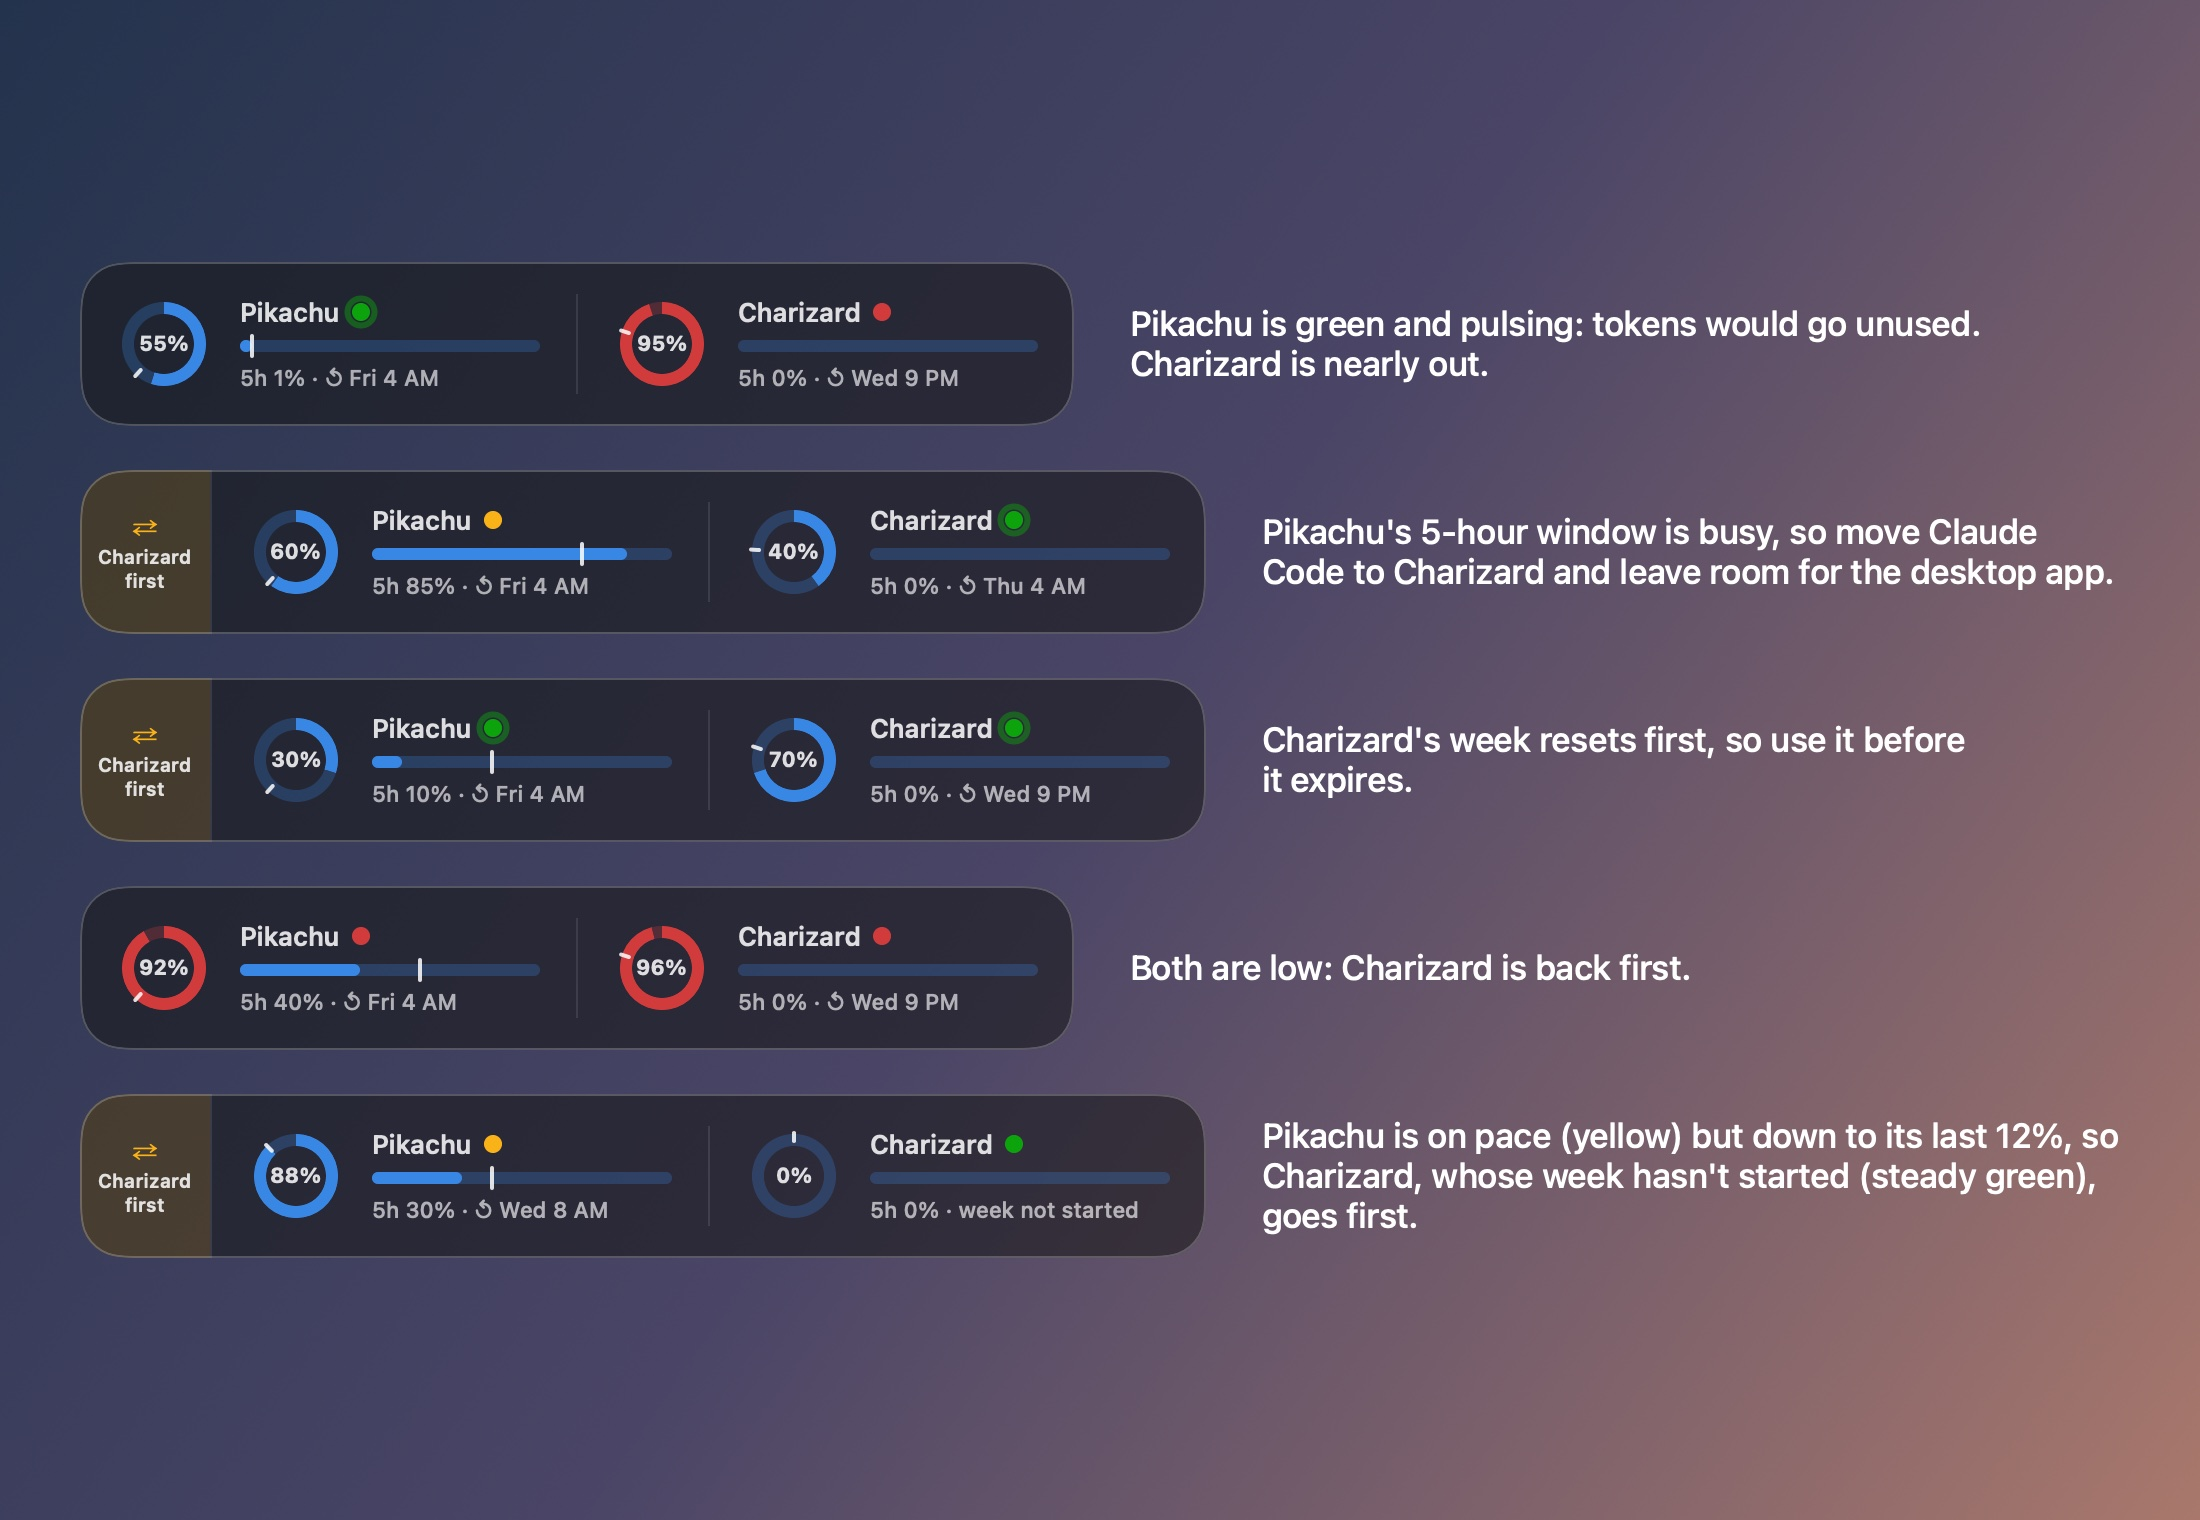
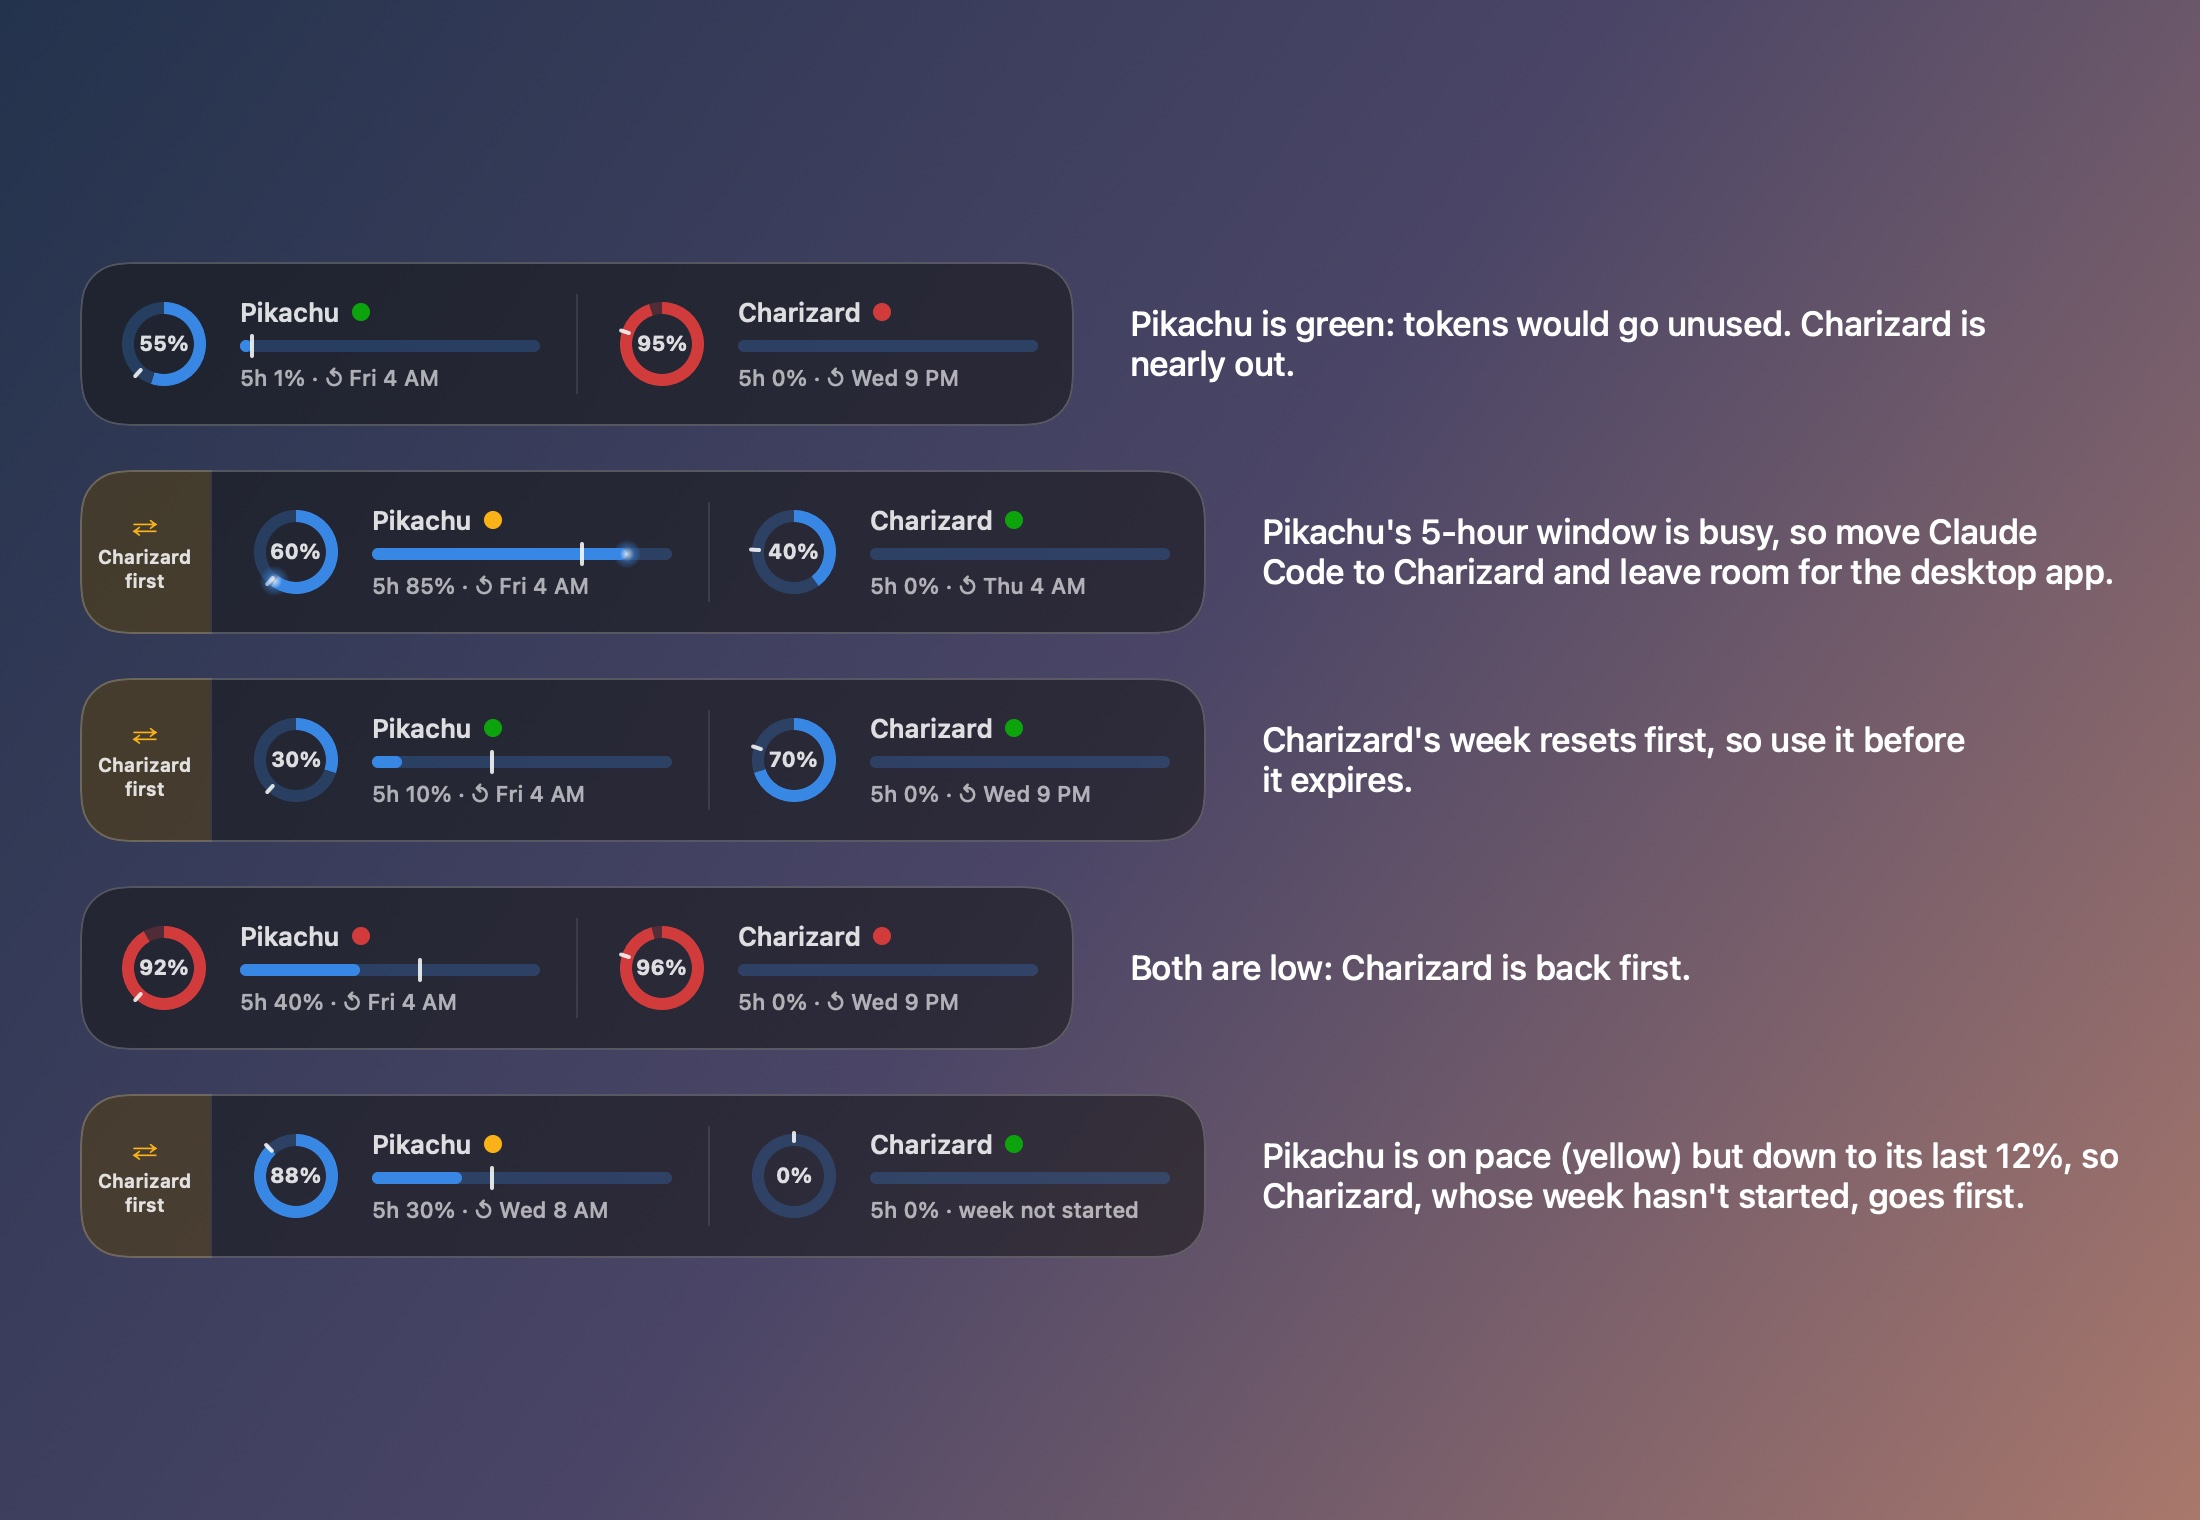
Document the compact widget and the in-use effect; refresh the screenshots

diff --git a/Sources/ClaudeDock/Showcase.swift b/Sources/ClaudeDock/Showcase.swift
@@ -33,6 +33,7 @@ enum Showcase {
         let side = model(scenarios[0])
         side.vertical = true
         write(SideScene(model: side), size: CGSize(width: 1000, height: 820), scheme: .dark, to: dir, "vertical.png")
+        write(CompactScene(model: main), size: CGSize(width: 1180, height: 330), scheme: .dark, to: dir, "compact.png")
         try? FileManager.default.removeItem(at: history)
         print("Showcase written to \(dir.path)")
     }
@@ -166,6 +167,34 @@ private struct DesktopScene: View {
             .frame(maxWidth: .infinity, maxHeight: .infinity, alignment: .bottomTrailing)
             .padding(.trailing, 12)
             .padding(.bottom, 6)
+        }
+    }
+}
+
+/// The bottom-right of a desktop twice: the compact widget beside the Dock, and the full
+/// widget it grows to when the pointer rests on it.
+private struct CompactScene: View {
+    @ObservedObject var model: AppModel
+
+    var body: some View {
+        ZStack {
+            Wallpaper(dark: true)
+            VStack(spacing: 40) {
+                row(compact: true)
+                row(compact: false)
+            }
+            .padding(.vertical, 30)
+        }
+    }
+
+    private func row(compact: Bool) -> some View {
+        ZStack {
+            FakeDock()
+                .frame(maxWidth: .infinity, alignment: .leading)
+                .padding(.leading, -160)
+            WidgetView(model: model, actions: .none, compact: compact).fixedSize()
+                .frame(maxWidth: .infinity, alignment: .trailing)
+                .padding(.trailing, 12)
         }
     }
 }

diff --git a/README.md b/README.md
@@ -42,13 +42,22 @@ at the end of the week. Claude Dock answers that at a glance, without opening a 
 |---|---|
 | **Ring** | How much of this week's limit is used. The **tick** on the ring is how much of the week has gone by: keep the fill up near the tick and nothing goes unused. |
 | **Bar** | How much of the current **5-hour window** is used. Its tick is how far into the window you are. |
-| **Dot** | 🟢 **use it**: at your current pace tokens would go unused at reset (it pulses faster the more would go to waste) · 🟡 **on pace** · 🔴 **nearly out** |
+| **Dot** | 🟢 **use it**: at your current pace tokens would go unused at reset · 🟡 **on pace** · 🔴 **nearly out** |
 | **Caption** | `5h 19% · ↺ Fri 4 AM`: the 5-hour window's use, then when the week resets. |
+| **Particles** | The org is in use right now: Claude Code is working on it, or its usage went up at the last reading (which also catches the desktop app, up to 3 minutes late). |
 | **⇄ tab** | Appears only when Claude Code should switch orgs, e.g. `Charizard first`. |
 
 It's as tall as your Dock, its rings are the size of your Dock icons, and it uses the same
 clear Liquid Glass, so it looks like part of the Dock. Hover over an org for the whole
 story in a sentence (VoiceOver reads the same).
+
+**Small until you need it.** The widget starts compact: each org's ring, name and 5-hour
+line. Rest the pointer on it and it grows into the full widget, over the Dock if it has
+to; move away and it shrinks back. Click it for the panel either way.
+
+<p align="center">
+  <img src="docs/images/compact.jpg" alt="The compact widget beside the Dock, and the full widget it grows to on hover" width="880">
+</p>
 
 With one org, there's nothing to switch between, so you just get the ring, bar and dot.
 
@@ -63,8 +72,9 @@ the side, and the panel opens beside it.
 </p>
 
 Right-click it for **Position** (any corner or side), **Layout** (automatic, horizontal or
-vertical) and **Size** (Small, Match Dock, Large, Extra large), or pinch on your trackpad
-over it to resize freely.
+vertical), **Size** (Small, Match Dock, Large, Extra large), **Shrink until hovered** (on
+by default) and **In-use effect** (Sparks, Flow, Shimmer or Off, and Subtle, Normal or
+Lots), or pinch on your trackpad over it to resize freely.
 
 ## Every state
 
@@ -95,7 +105,7 @@ weeks reset at different times.
 |---|---|
 | 🔴 | under 10% of the week left, or on track to run out 12+ hours before reset, or the 5-hour window is 95%+ used |
 | 🟡 | the 5-hour window is 80%+ used, or less than 5% would go unused, or running out slightly early |
-| 🟢 | 5% or more would go unused. Pulses slowly under 10%, normally at 10–25%, fast above 25% |
+| 🟢 | 5% or more would go unused |
 
 **Switching orgs:** an org can take Claude Code when it has at least 10% of its week left and
 its 5-hour window is under 80% used (the org shared with the desktop app also keeps a 15%
@@ -164,6 +174,8 @@ red, and if claude.ai signs it out.
 - It only **reads**: GET requests to claude.ai's usage endpoints every 3 minutes. It never
   sends chats, changes settings or touches billing.
 - It reads **one field** from `~/.claude.json`: which org Claude Code is signed into.
+- It watches `~/.claude/projects` for changes, to know when Claude Code is working. It
+  never opens those files.
 - History stays on your Mac in `~/Library/Application Support/ClaudeDock/`, kept 35 days.
 - No analytics, no other servers.
 

diff --git a/docs/manual-checks.md b/docs/manual-checks.md
@@ -55,6 +55,19 @@ a real Mac, a real account, or a person. Tick what you checked and on what.
 - [ ] A 24-hour region (System Settings → General → Language & Region): times read "16:00".
 - [ ] Changing the time zone updates the times within a minute, without relaunching.
 
+## Compact and in use
+
+- [ ] Hover grows the widget and leaving shrinks it, with another app in front, over a
+      full-screen app, on every Position, and in the vertical strip.
+- [ ] Expanded beside the Dock, it draws over the Dock.
+- [ ] Click: the panel opens against the expanded widget, which stays expanded until the
+      panel closes.
+- [ ] Reduce Motion: the widget only crossfades, and an org in use shows a still glow.
+- [ ] Claude Code working: particles on its org within about 2 s, gone about 60 s after it
+      stops.
+- [ ] A desktop-app chat on the primary org: particles there within one poll (3 minutes).
+- [ ] Each In-use effect and amount: Activity Monitor shows Claude Dock near 0% CPU.
+
 ## When things go wrong
 
 - [ ] Wi-Fi off: within a refresh the panel says "Can't reach claude.ai", the widget greys

diff --git a/docs/superpowers/specs/2026-10-07-compact-widget-design.md b/docs/superpowers/specs/2026-10-07-compact-widget-design.md
@@ -1,7 +1,6 @@
 # Compact widget and in-use particles: design
 
-Date: 2026-10-07. Status: design agreed in brainstorming (mockups in the visual companion),
-awaiting spec review.
+Date: 2026-10-07. Status: approved and implemented (plan: docs/superpowers/plans/2026-10-07-compact-widget.md).
 
 ## Goal
 
